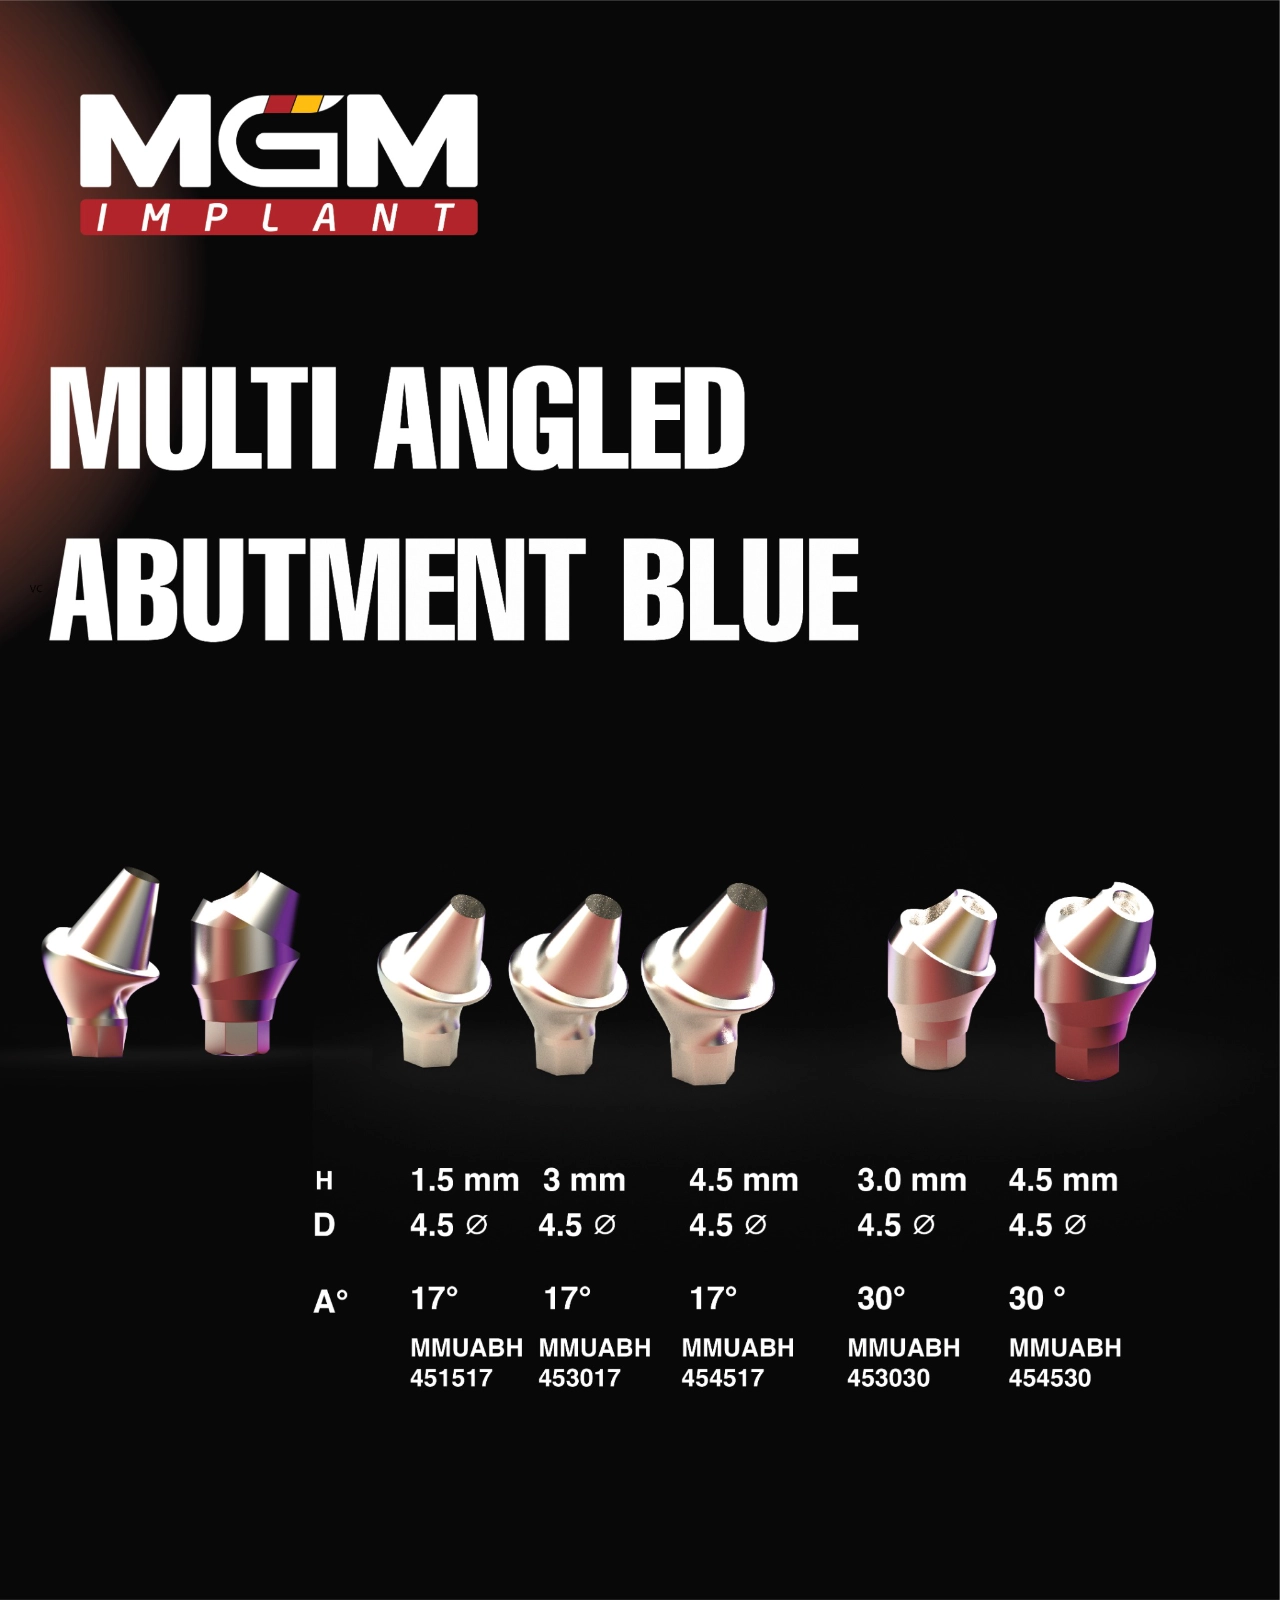
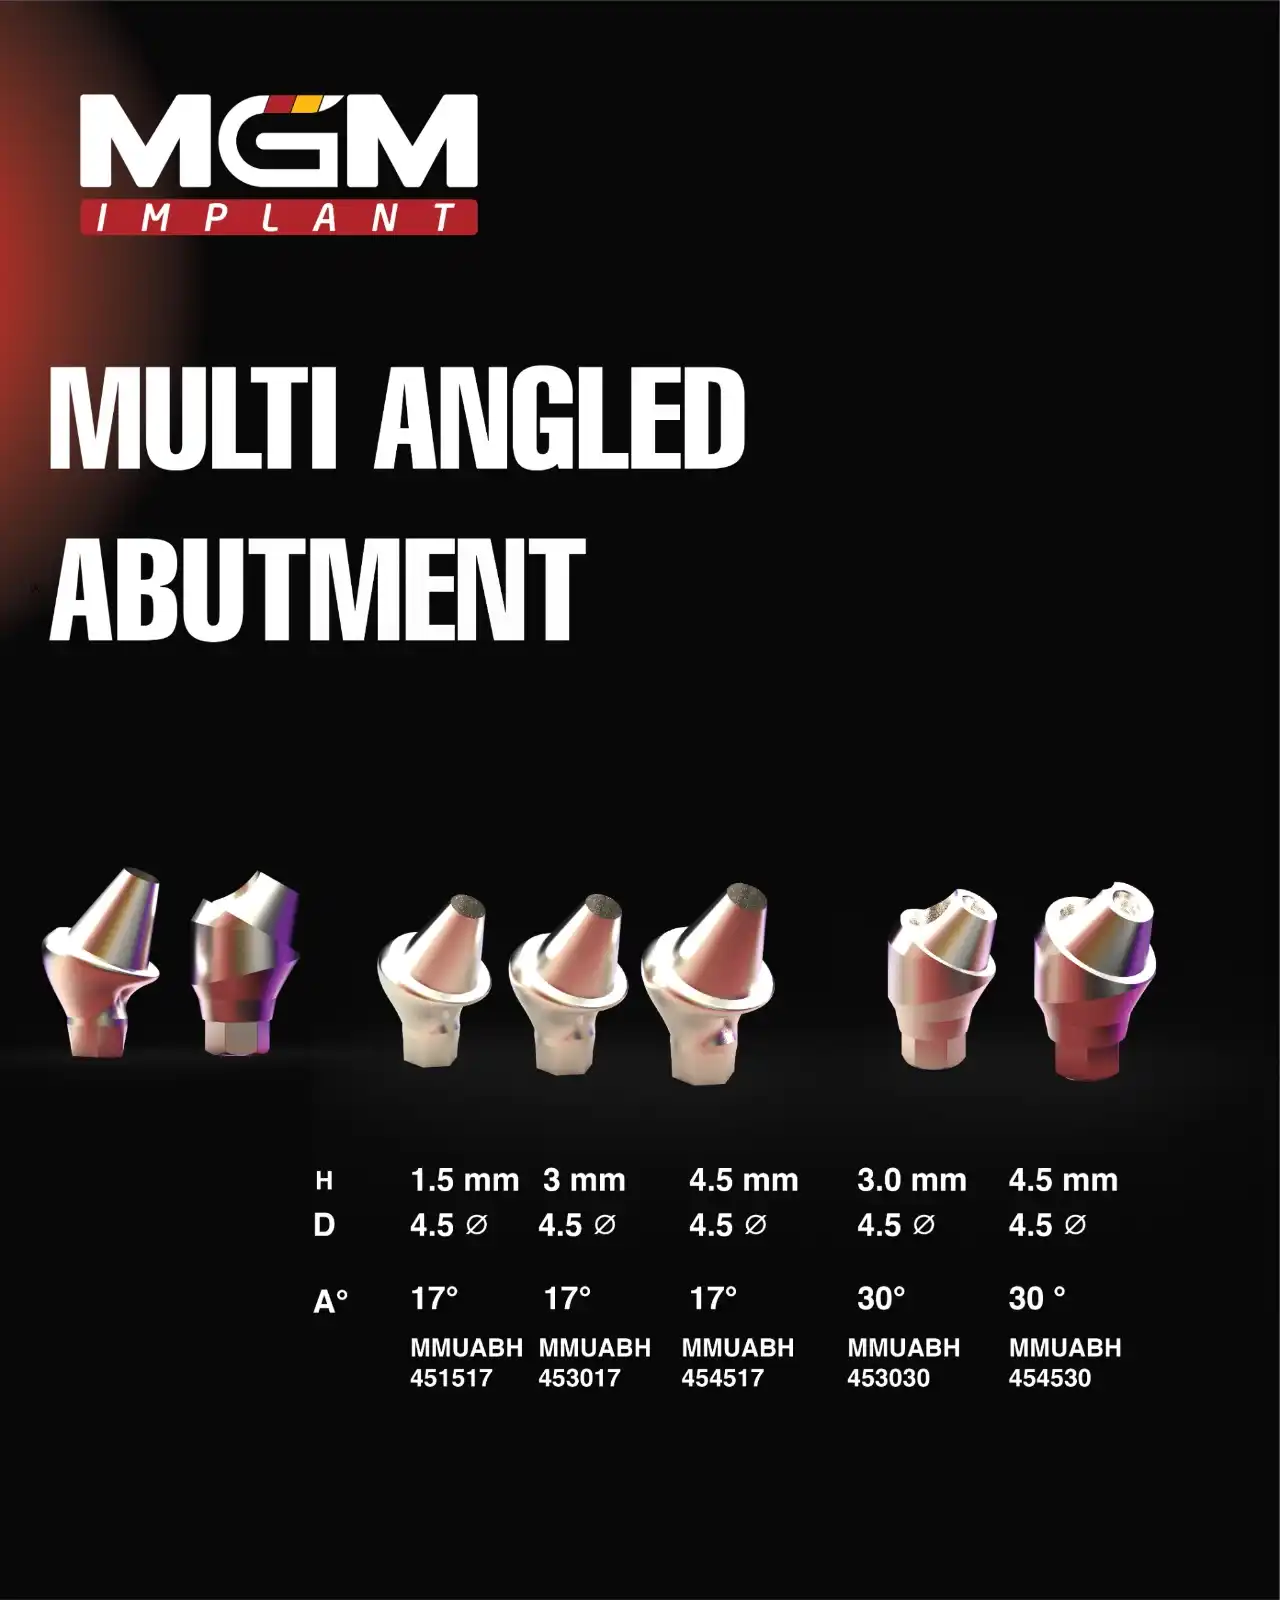
fix: improve Prosthetics products and remove PDF

Changed region(s): [[0.4688, 0.3125, 0.6875, 0.4062]]

diff --git a/src/components/ui/ProductDetails.js b/src/components/ui/ProductDetails.js
@@ -422,15 +422,22 @@ export const ProductImage = (productId, productName) => {
  * @param {string} pdfUrl - Optional PDF URL for catalog download
  * @returns {string} HTML string
  */
-export const ProductActions = (productName, productId, pdfUrl) => {
+export const ProductActions = (
+  productName,
+  productId,
+  pdfUrl,
+  showPdf = true,
+) => {
   const escapedName = productName.replace(/'/g, "\\'");
 
-  const pdfButton = pdfUrl
-    ? `<a href="${pdfUrl}" target="_blank" rel="noopener noreferrer" class="px-8 py-4 bg-secondary text-white font-heading font-semibold rounded-lg hover:bg-secondary/90 shadow-lg transition-all flex items-center gap-2">
+  const pdfButton = !showPdf
+    ? ""
+    : pdfUrl
+      ? `<a href="${pdfUrl}" target="_blank" rel="noopener noreferrer" class="px-8 py-4 bg-secondary text-white font-heading font-semibold rounded-lg hover:bg-secondary/90 shadow-lg transition-all flex items-center gap-2">
         <svg xmlns="http://www.w3.org/2000/svg" class="w-5 h-5" fill="none" viewBox="0 0 24 24" stroke="currentColor"><path stroke-linecap="round" stroke-linejoin="round" stroke-width="2" d="M12 10v6m0 0l-3-3m3 3l3-3m2 8H7a2 2 0 01-2-2V5a2 2 0 012-2h5.586a1 1 0 01.707.293l5.414 5.414a1 1 0 01.293.707V19a2 2 0 01-2 2z" /></svg>
         View PDF
       </a>`
-    : `<button disabled class="px-8 py-4 bg-gray-300 border border-gray-400 text-gray-500 font-heading font-semibold rounded-lg cursor-not-allowed opacity-60">
+      : `<button disabled class="px-8 py-4 bg-gray-300 border border-gray-400 text-gray-500 font-heading font-semibold rounded-lg cursor-not-allowed opacity-60">
         Download PDF
       </button>`;
 

diff --git a/src/data/productImages.js b/src/data/productImages.js
@@ -29,7 +29,7 @@ export const productImages = {
   // Stock Abutments
   "straight-abutment":
     "/assets/images/prosthetics-covers/STANDRAD STRAIGHT abutment.webp",
-  "angled-abutment": "/assets/images/prosthetics-covers/NARROW ANGLED MUA.webp",
+  // "angled-abutment": "/assets/images/prosthetics-covers/NARROW ANGLED MUA.webp",
   "healing-abutment":
     "/assets/images/prosthetics-covers/STANDARD GINGIVAL FORMER.webp",
 
@@ -43,8 +43,7 @@ export const productImages = {
   "mua-cylinders": "/assets/images/prosthetics-covers/mua lab analouge.webp",
 
   // Overdenture Systems
-  "locator-abutment":
-    "/assets/images/prosthetics-covers/M-L ABUTMENTS-BLUE.webp",
+  "locator-abutment": "/assets/images/prosthetics-covers/M-L ABUTMENTS.webp",
   "ball-socket-abutment":
     "/assets/images/prosthetics-covers/STANDARD BALL ABUTMENT.webp",
 
@@ -120,7 +119,7 @@ export const productSecondaryImages = {
   "mgm-plus": "/assets/images/mgm-plus/MGM PLUS Solid Core.webp",
   "mgm-compressive": ["/assets/images/mgm-compressive/comp-2.webp"],
   "locator-abutment": [
-    "/assets/images/prosthetics-covers/M-L ABUTMENTS-YELLOW.webp",
+    "/assets/images/prosthetics-covers/M-L ABUTMENTS.webp",
     "/assets/images/products/23-locator.webp",
     "/assets/images/products/24-locator 2.webp",
     "/assets/images/products/25-locator 3.webp",

diff --git a/src/components/pages/ProductDetailPage.js b/src/components/pages/ProductDetailPage.js
@@ -250,7 +250,12 @@ export const ProductDetailPage = (productId) => {
 
           ${MaterialsSection(product.materials)}
           
-          ${ProductActions(product.name, product.id, product.pdfUrl)}
+          ${ProductActions(
+            product.name,
+            product.id,
+            product.pdfUrl,
+            categoryKey !== "prosthetics",
+          )}
         </div>
       </div>
 
